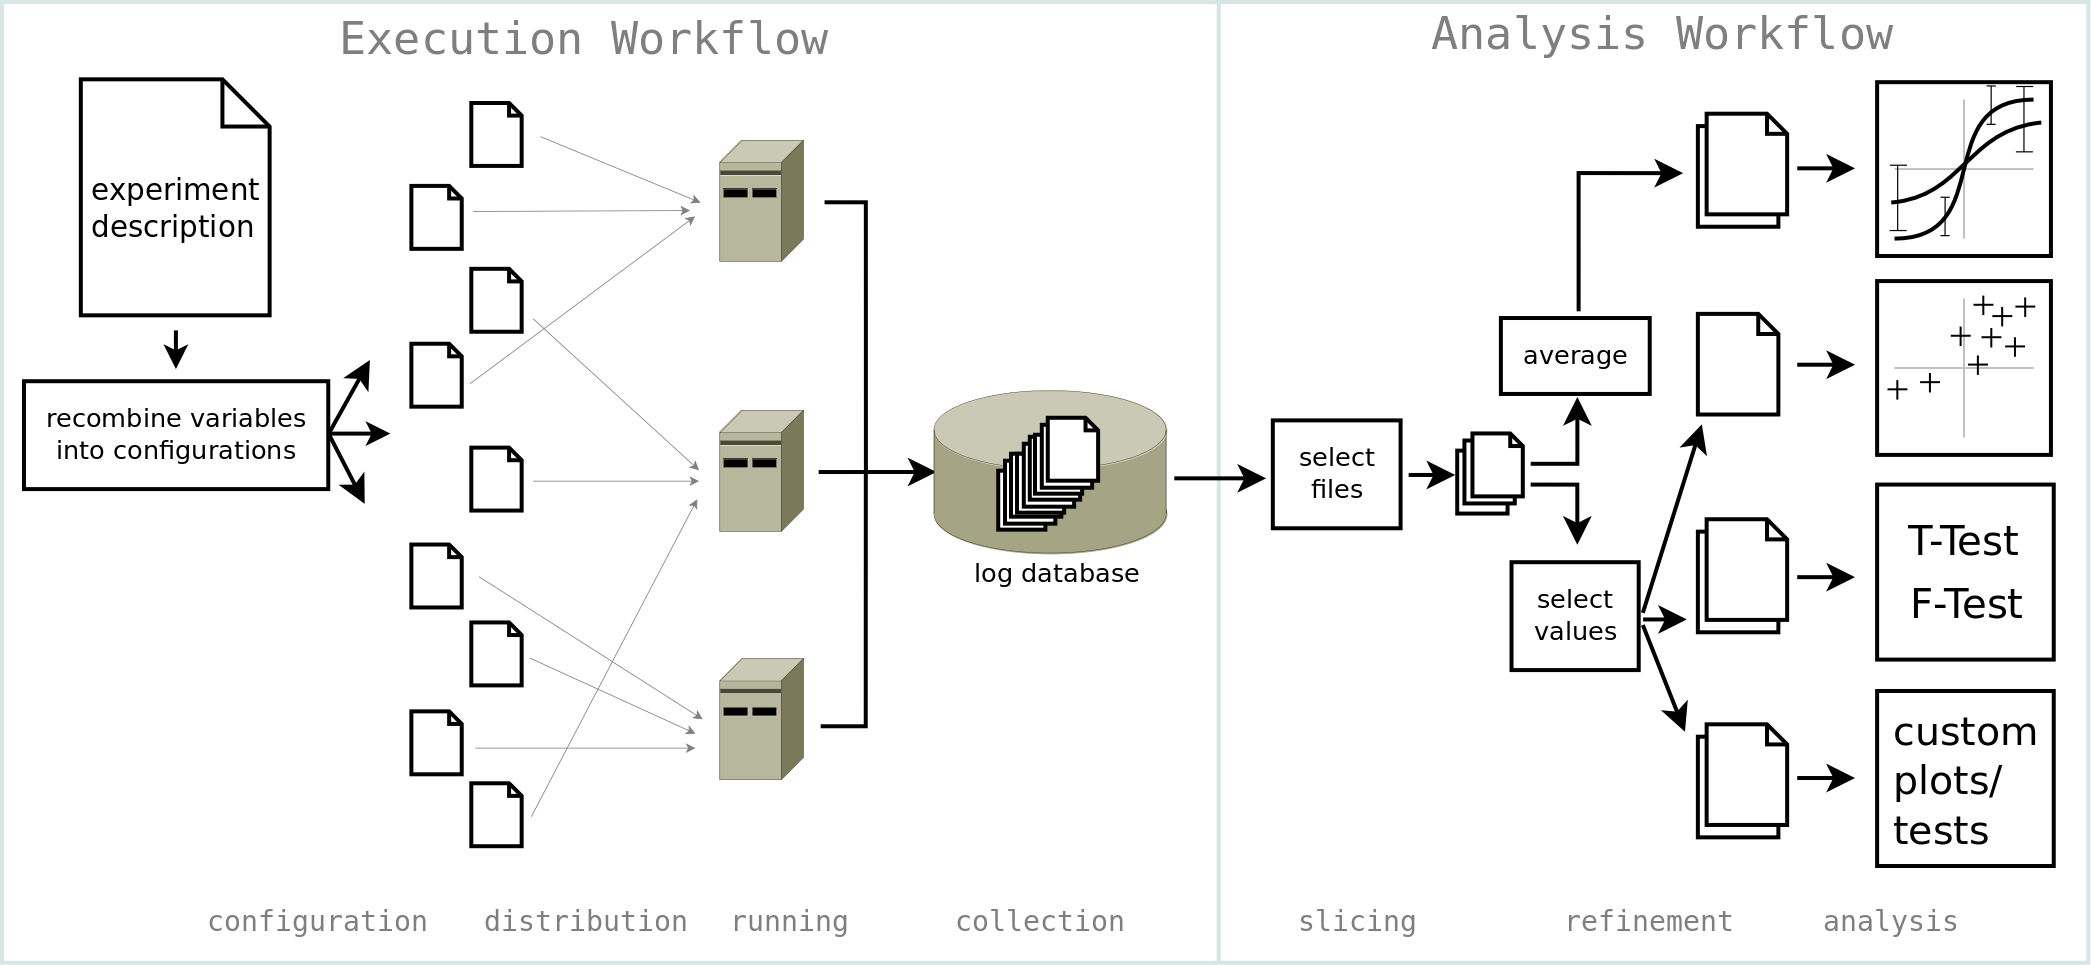
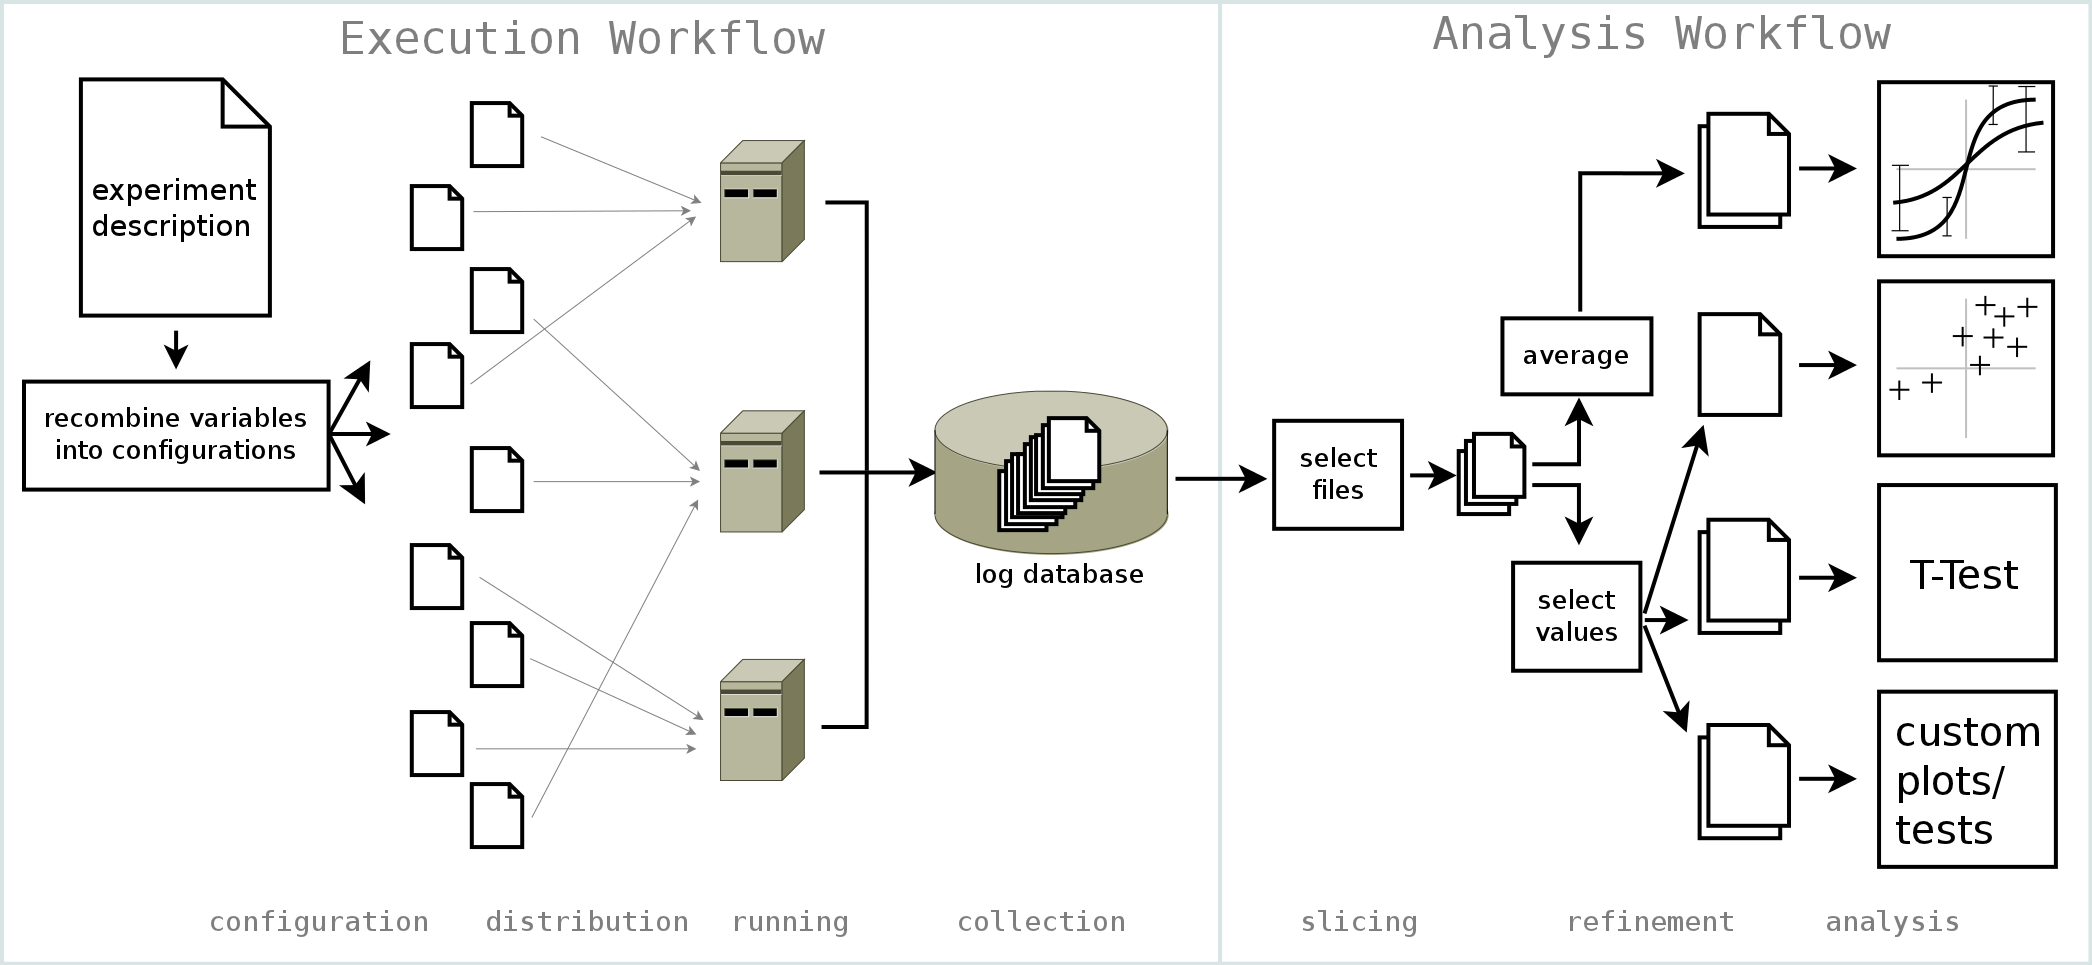
only T-Tests right now

diff --git a/doc/qa/workflows.rst b/doc/qa/workflows.rst
@@ -51,7 +51,7 @@ and standard deviations can be calculated.
 
 The result is finally *analysed* graphically with Gnuplot or statistically 
 with the Gnu R package. Out of the box, Nicessa supports line plots with error bars and scatter plots (several analysis 
-workflows can be conducted that each result in one plot on the same figure), T-Tests and F-Tests. 
+workflows can be conducted that each result in one plot on the same figure) and F-Tests. 
 You can configure as many analyses as you need and it is possible to write custom gnuplot 
 and R scripts and link them into the workflow.
 
